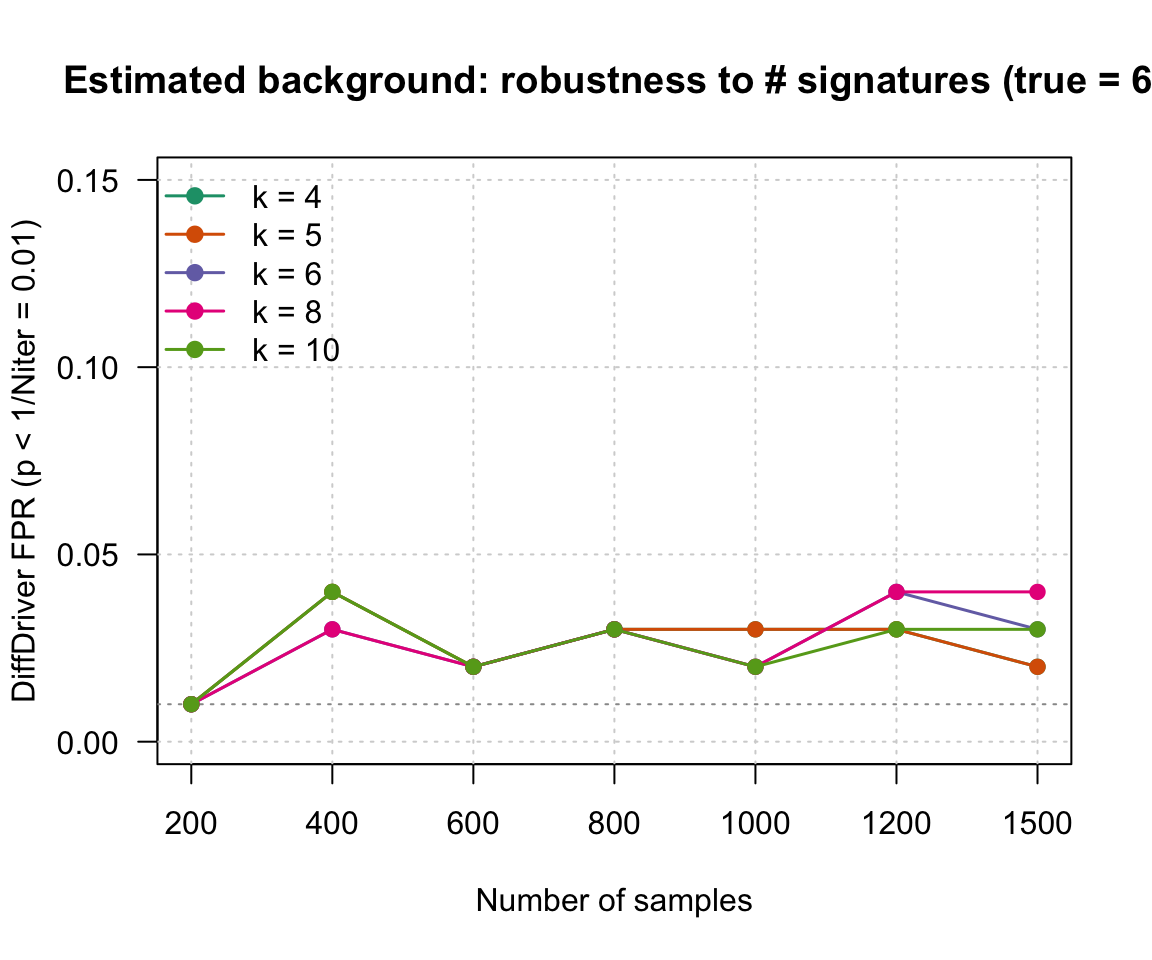
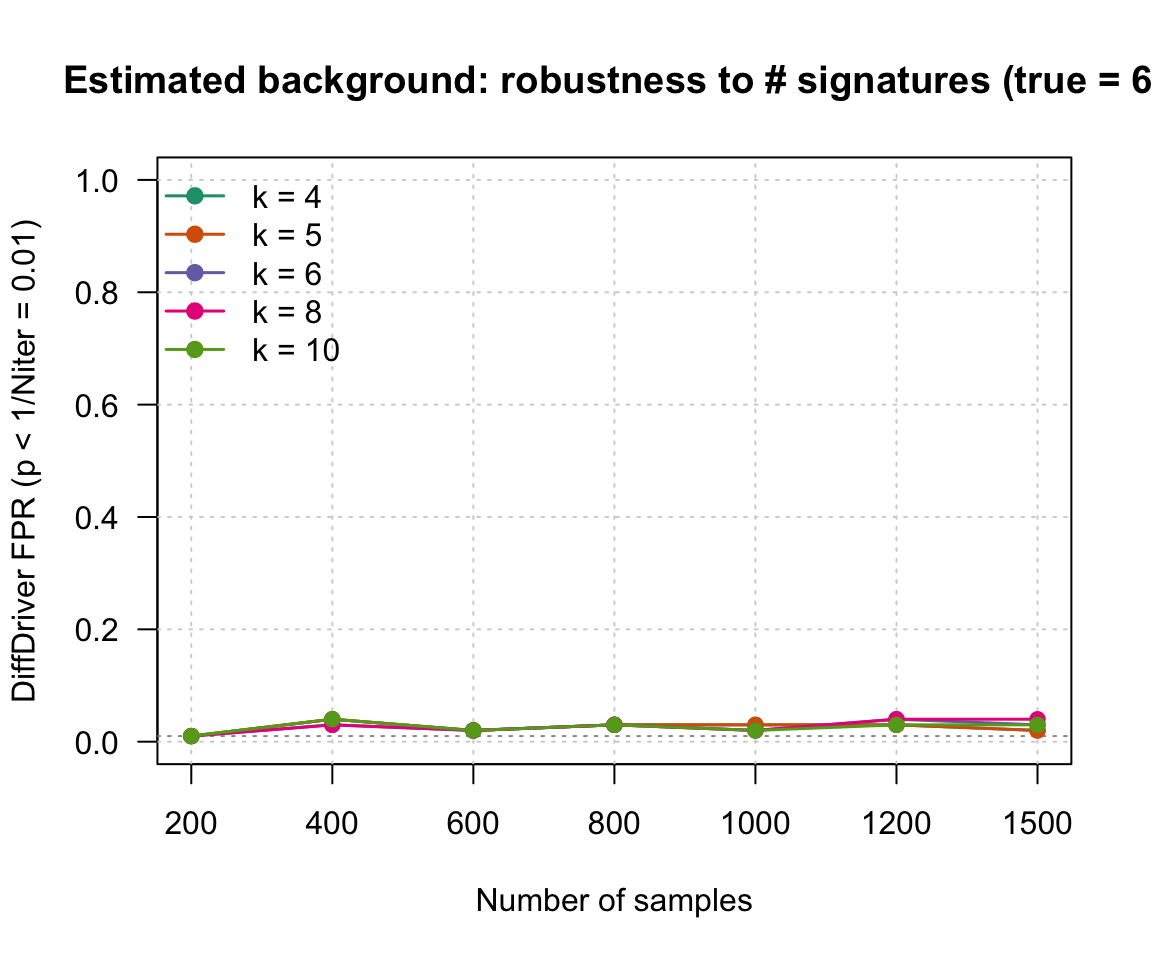
Set signature-count (k) figure y-axis to 0-1 (full FPR range)

diff --git a/docs/Simulation-BMR-variations.html b/docs/Simulation-BMR-variations.html
@@ -633,15 +633,15 @@ project makes it easier to run your code on other machines.</p>
 <div class="panel panel-default">
 <div class="panel-heading">
 <p class="panel-title">
-<a data-toggle="collapse" data-parent="#workflowr-checks" href="#strongRepositoryversionstrongahrefhttpsgithubcomszhaolabDiffDriverPAPERtreecefd056cdf1ceb7c2950c221e951dc0f9ba1e165targetblankcefd056a">
+<a data-toggle="collapse" data-parent="#workflowr-checks" href="#strongRepositoryversionstrongahrefhttpsgithubcomszhaolabDiffDriverPAPERtree415679a6cc0a2fd4c56f8f90d7aa7b9b2b662266targetblank415679aa">
 <span class="glyphicon glyphicon-ok text-success"
 aria-hidden="true"></span> <strong>Repository version:</strong>
-<a href="https://github.com/szhaolab/DiffDriver-PAPER/tree/cefd056cdf1ceb7c2950c221e951dc0f9ba1e165" target="_blank">cefd056</a>
+<a href="https://github.com/szhaolab/DiffDriver-PAPER/tree/415679a6cc0a2fd4c56f8f90d7aa7b9b2b662266" target="_blank">415679a</a>
 </a>
 </p>
 </div>
 <div
[2 lines of base64/hex data omitted]
 class="panel-collapse collapse">
 <div class="panel-body">
 <p>
@@ -651,7 +651,7 @@ reproducibility.
 </p>
 <p>
 The results in this page were generated with repository version
-<a href="https://github.com/szhaolab/DiffDriver-PAPER/tree/cefd056cdf1ceb7c2950c221e951dc0f9ba1e165" target="_blank">cefd056</a>.
+<a href="https://github.com/szhaolab/DiffDriver-PAPER/tree/415679a6cc0a2fd4c56f8f90d7aa7b9b2b662266" target="_blank">415679a</a>.
 See the <em>Past versions</em> tab to see a history of the changes made
 to the R Markdown and HTML files.
 </p>
@@ -678,7 +678,6 @@ Untracked files:
 
 Unstaged changes:
     Modified:   analysis/Simulation-BMR-variations.Rmd
-    Modified:   analysis/Simulation-BMR.Rmd
 
 </code></pre>
 <p>
@@ -724,6 +723,40 @@ Message
 </tr>
 </thead>
 <tbody>
+<tr>
+<td>
+Rmd
+</td>
+<td>
+<a href="https://github.com/szhaolab/DiffDriver-PAPER/blob/415679a6cc0a2fd4c56f8f90d7aa7b9b2b662266/analysis/Simulation-BMR-variations.Rmd" target="_blank">415679a</a>
+</td>
+<td>
+Siming
+</td>
+<td>
+2026-07-26
+</td>
+<td>
+Assess FPR at alpha = 1/Niter (Monte-Carlo-resolution threshold)
+</td>
+</tr>
+<tr>
+<td>
+html
+</td>
+<td>
+<a href="https://rawcdn.githack.com/szhaolab/DiffDriver-PAPER/415679a6cc0a2fd4c56f8f90d7aa7b9b2b662266/docs/Simulation-BMR-variations.html" target="_blank">415679a</a>
+</td>
+<td>
+Siming
+</td>
+<td>
+2026-07-26
+</td>
+<td>
+Assess FPR at alpha = 1/Niter (Monte-Carlo-resolution threshold)
+</td>
+</tr>
 <tr>
 <td>
 Rmd
@@ -952,6 +985,17 @@ Date
 <tbody>
 <tr>
 <td>
+<a href="https://github.com/szhaolab/DiffDriver-PAPER/blob/415679a6cc0a2fd4c56f8f90d7aa7b9b2b662266/docs/figure/Simulation-BMR-variations.Rmd/baseline-1.png" target="_blank">415679a</a>
+</td>
+<td>
+Siming
+</td>
+<td>
+2026-07-26
+</td>
+</tr>
+<tr>
+<td>
 <a href="https://github.com/szhaolab/DiffDriver-PAPER/blob/3f9450ac554000281418889e9b9162180202709b/docs/figure/Simulation-BMR-variations.Rmd/baseline-1.png" target="_blank">3f9450a</a>
 </td>
 <td>
@@ -1019,6 +1063,17 @@ Date
 </tr>
 </thead>
 <tbody>
+<tr>
+<td>
+<a href="https://github.com/szhaolab/DiffDriver-PAPER/blob/415679a6cc0a2fd4c56f8f90d7aa7b9b2b662266/docs/figure/Simulation-BMR-variations.Rmd/burden-1.png" target="_blank">415679a</a>
+</td>
+<td>
+Siming
+</td>
+<td>
+2026-07-26
+</td>
+</tr>
 <tr>
 <td>
 <a href="https://github.com/szhaolab/DiffDriver-PAPER/blob/cefd056cdf1ceb7c2950c221e951dc0f9ba1e165/docs/figure/Simulation-BMR-variations.Rmd/burden-1.png" target="_blank">cefd056</a>
@@ -1100,6 +1155,17 @@ Date
 <tbody>
 <tr>
 <td>
+<a href="https://github.com/szhaolab/DiffDriver-PAPER/blob/415679a6cc0a2fd4c56f8f90d7aa7b9b2b662266/docs/figure/Simulation-BMR-variations.Rmd/r2-1.png" target="_blank">415679a</a>
+</td>
+<td>
+Siming
+</td>
+<td>
+2026-07-26
+</td>
+</tr>
+<tr>
+<td>
 <a href="https://github.com/szhaolab/DiffDriver-PAPER/blob/3f9450ac554000281418889e9b9162180202709b/docs/figure/Simulation-BMR-variations.Rmd/r2-1.png" target="_blank">3f9450a</a>
 </td>
 <td>
@@ -1164,6 +1230,17 @@ Date
 <tbody>
 <tr>
 <td>
+<a href="https://github.com/szhaolab/DiffDriver-PAPER/blob/415679a6cc0a2fd4c56f8f90d7aa7b9b2b662266/docs/figure/Simulation-BMR-variations.Rmd/continuous-1.png" target="_blank">415679a</a>
+</td>
+<td>
+Siming
+</td>
+<td>
+2026-07-26
+</td>
+</tr>
+<tr>
+<td>
 <a href="https://github.com/szhaolab/DiffDriver-PAPER/blob/aa3931bc88a854656a5af61561e25a4493ddcd74/docs/figure/Simulation-BMR-variations.Rmd/continuous-1.png" target="_blank">aa3931b</a>
 </td>
 <td>
@@ -1197,7 +1274,7 @@ sizes. The signature-count choice is not a fragile knob.</p>
 <div class="sourceCode" id="cb7"><pre class="sourceCode r"><code class="sourceCode r"><span id="cb7-1"><a href="#cb7-1" tabindex="-1"></a>ks <span class="ot">&lt;-</span> <span class="fu">names</span>(bmrvar<span class="sc">$</span>partB); kcols <span class="ot">&lt;-</span> <span class="fu">c</span>(<span class="st">&quot;#1b9e77&quot;</span>,<span class="st">&quot;#d95f02&quot;</span>,<span class="st">&quot;#7570b3&quot;</span>,<span class="st">&quot;#e7298a&quot;</span>,<span class="st">&quot;#66a61e&quot;</span>)</span>
 <span id="cb7-2"><a href="#cb7-2" tabindex="-1"></a>x <span class="ot">&lt;-</span> <span class="fu">seq_along</span>(SIZES)</span>
 <span id="cb7-3"><a href="#cb7-3" tabindex="-1"></a>al <span class="ot">&lt;-</span> <span class="dv">1</span><span class="sc">/</span><span class="fu">median</span>(<span class="fu">sapply</span>(bmrvar<span class="sc">$</span>partB[[<span class="dv">1</span>]], nrow))   <span class="co"># alpha = 1/Niter (100 iters -&gt; 0.01)</span></span>
-<span id="cb7-4"><a href="#cb7-4" tabindex="-1"></a><span class="fu">plot</span>(<span class="cn">NA</span>, <span class="at">xlim =</span> <span class="fu">c</span>(<span class="dv">1</span>, <span class="fu">length</span>(SIZES)), <span class="at">ylim =</span> <span class="fu">c</span>(<span class="dv">0</span>, <span class="fl">0.15</span>), <span class="at">xaxt =</span> <span class="st">&quot;n&quot;</span>,</span>
+<span id="cb7-4"><a href="#cb7-4" tabindex="-1"></a><span class="fu">plot</span>(<span class="cn">NA</span>, <span class="at">xlim =</span> <span class="fu">c</span>(<span class="dv">1</span>, <span class="fu">length</span>(SIZES)), <span class="at">ylim =</span> <span class="fu">c</span>(<span class="dv">0</span>, <span class="dv">1</span>), <span class="at">xaxt =</span> <span class="st">&quot;n&quot;</span>,</span>
 <span id="cb7-5"><a href="#cb7-5" tabindex="-1"></a>     <span class="at">xlab =</span> <span class="st">&quot;Number of samples&quot;</span>, <span class="at">ylab =</span> <span class="fu">sprintf</span>(<span class="st">&quot;DiffDriver FPR (p &lt; 1/Niter = %.4g)&quot;</span>, al),</span>
 <span id="cb7-6"><a href="#cb7-6" tabindex="-1"></a>     <span class="at">main =</span> <span class="st">&quot;Estimated background: robustness to # signatures (true = 6)&quot;</span>, <span class="at">las =</span> <span class="dv">1</span>)</span>
 <span id="cb7-7"><a href="#cb7-7" tabindex="-1"></a><span class="fu">axis</span>(<span class="dv">1</span>, x, SIZES); <span class="fu">grid</span>(); <span class="fu">abline</span>(<span class="at">h =</span> al, <span class="at">lty =</span> <span class="dv">3</span>, <span class="at">col =</span> <span class="st">&quot;grey60&quot;</span>)</span>
@@ -1229,6 +1306,17 @@ Date
 </tr>
 </thead>
 <tbody>
+<tr>
+<td>
+<a href="https://github.com/szhaolab/DiffDriver-PAPER/blob/415679a6cc0a2fd4c56f8f90d7aa7b9b2b662266/docs/figure/Simulation-BMR-variations.Rmd/sigk-1.png" target="_blank">415679a</a>
+</td>
+<td>
+Siming
+</td>
+<td>
+2026-07-26
+</td>
+</tr>
 <tr>
 <td>
 <a href="https://github.com/szhaolab/DiffDriver-PAPER/blob/aa3931bc88a854656a5af61561e25a4493ddcd74/docs/figure/Simulation-BMR-variations.Rmd/sigk-1.png" target="_blank">aa3931b</a>
